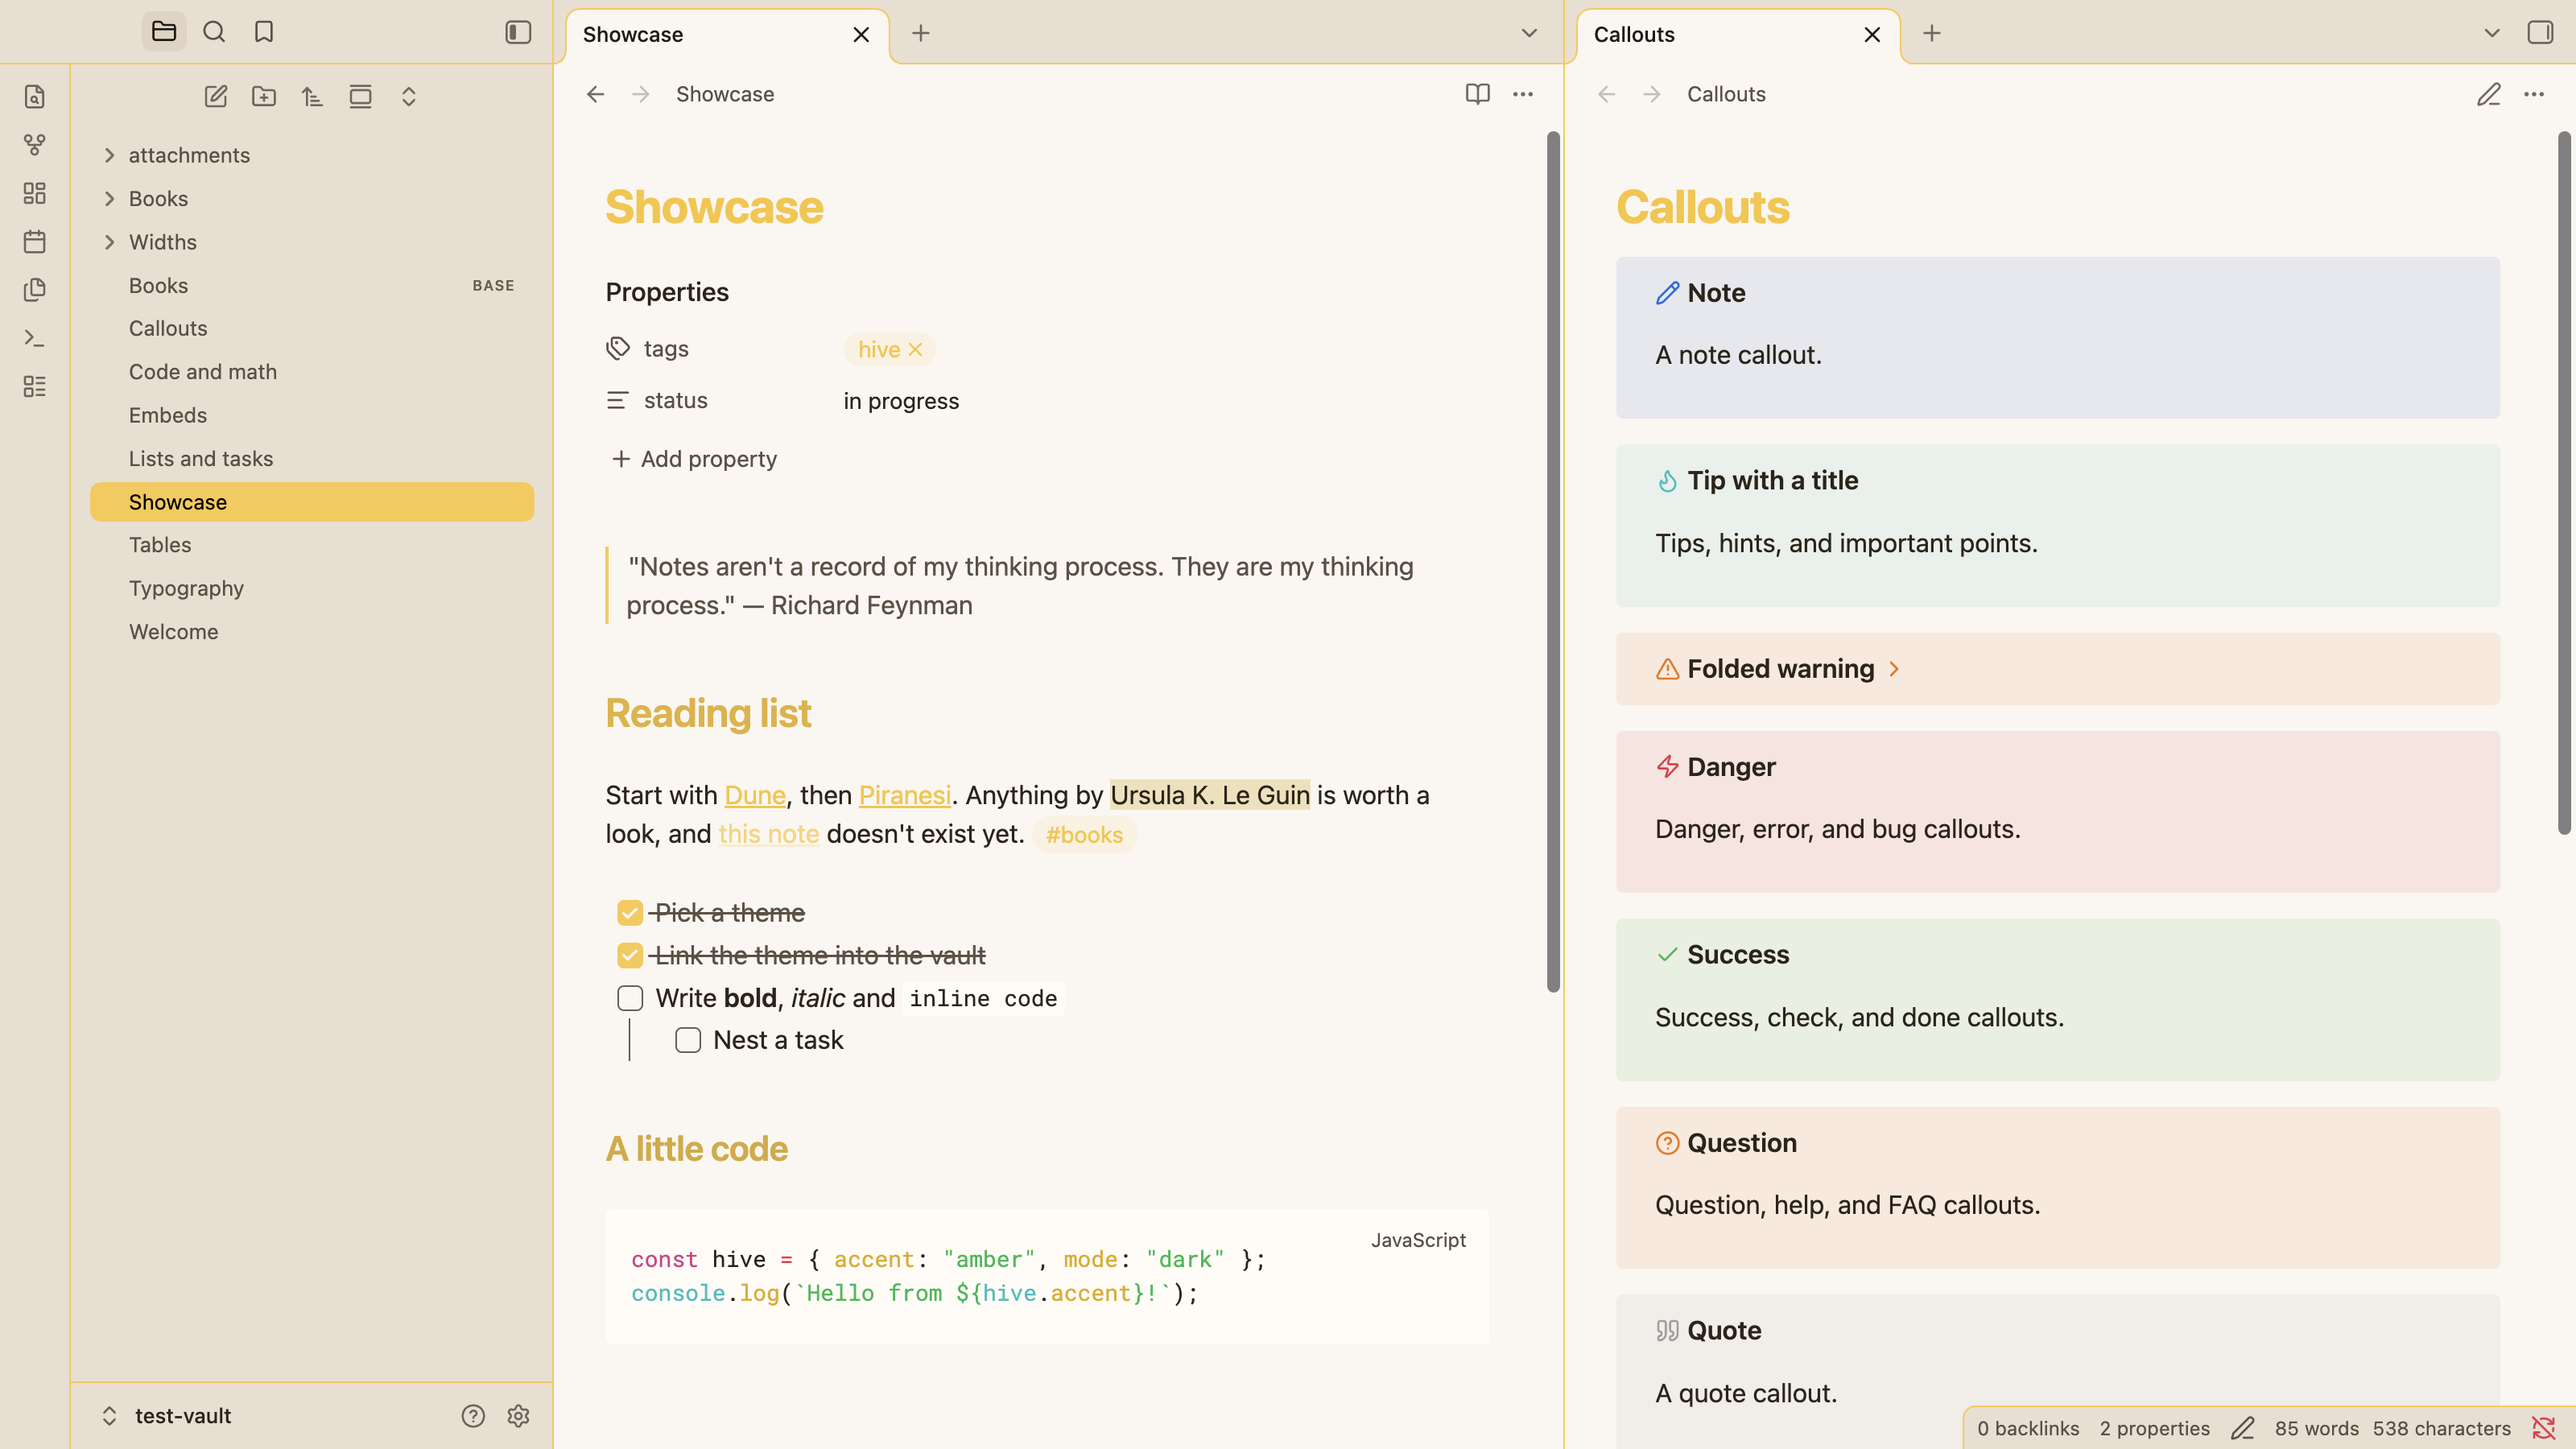
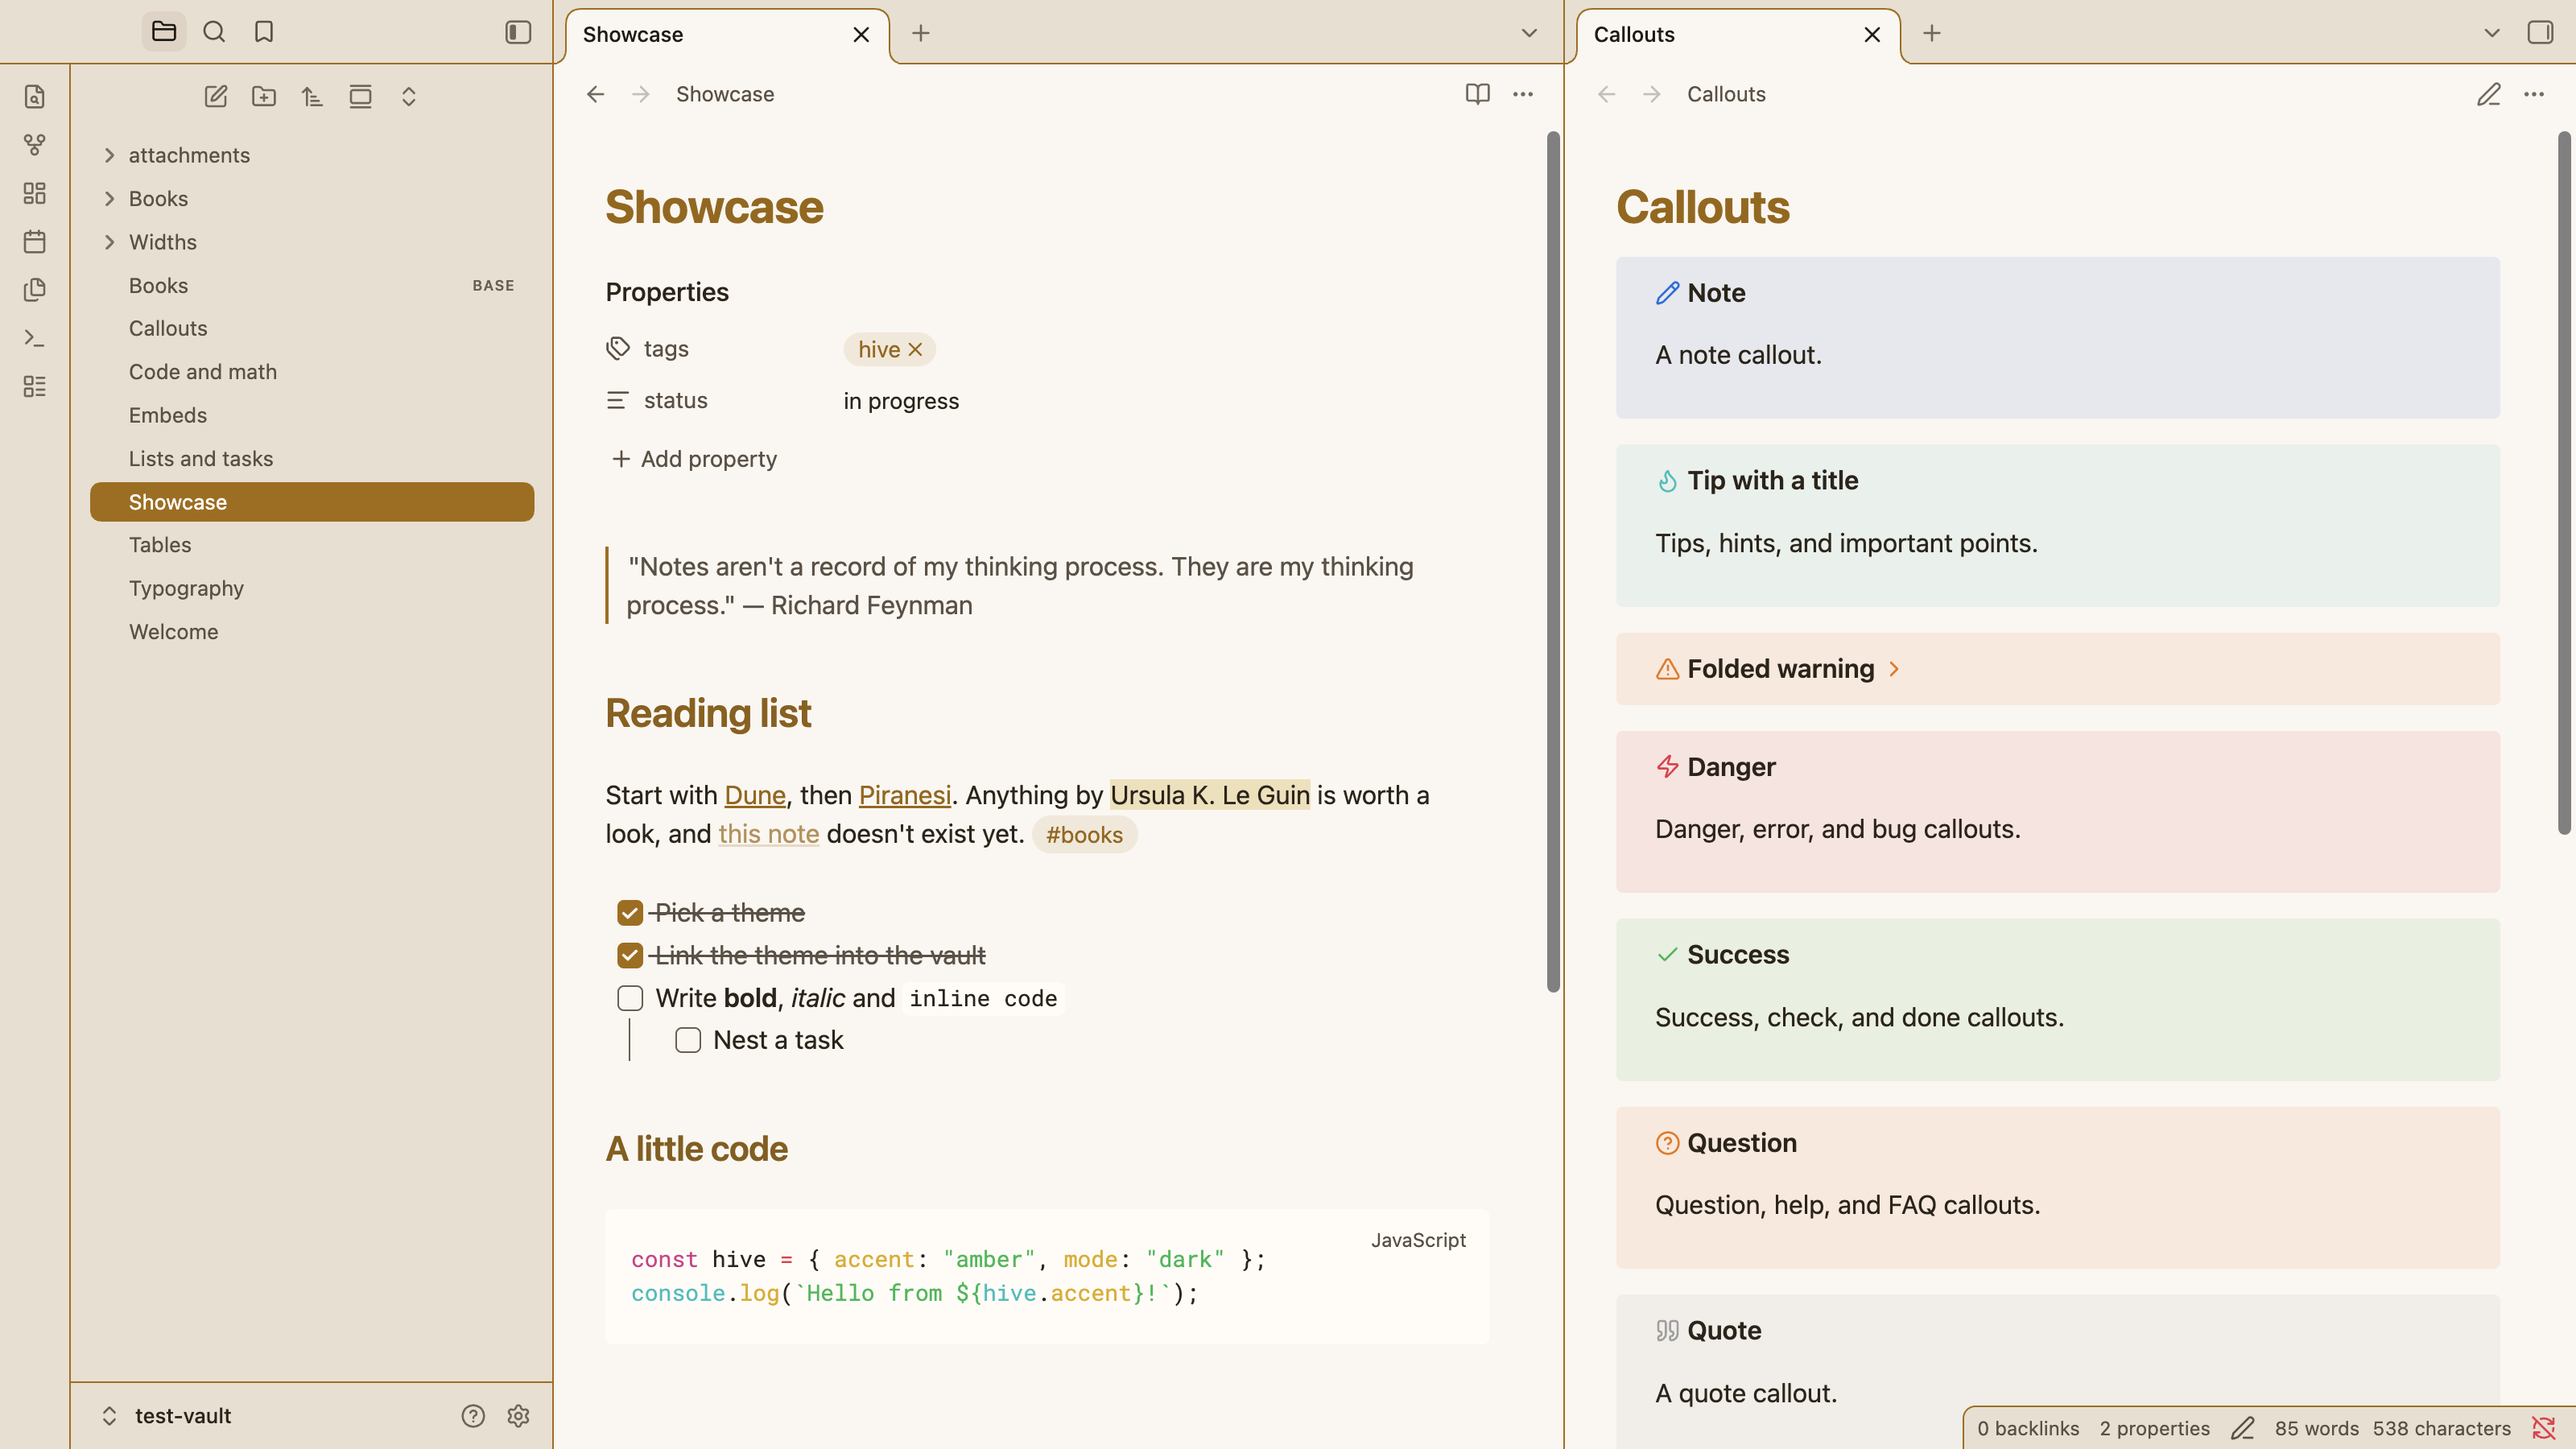
Use a darker amber accent for the light screenshot
The vault accent #f8c537 is only 1.5:1 against the light background.
The screenshot script now uses #9a6700 (4.6:1) in light mode, without
changing the vault setting.

diff --git a/CLAUDE.md b/CLAUDE.md
@@ -50,7 +50,7 @@ When adding a feature with no matching note, add an example to the vault in the 
 
 ## README screenshots
 
-`npm run screenshots` regenerates `img/hive-dark.png` and `img/hive-light.png` from `test-vault`. It sets a fixed 1600×900 @2x viewport, arranges `Showcase.md` (editing view) next to `Callouts.md` (reading view), and restores the window size and color scheme afterwards. Re-run it after visible changes to the theme and view both PNGs before committing. To change what's in the screenshots, edit `Showcase.md`, which exists only for the screenshots, and keep it short enough to fit without scrolling.
+`npm run screenshots` regenerates `img/hive-dark.png` and `img/hive-light.png` from `test-vault`. It sets a fixed 1600×900 @2x viewport, arranges `Showcase.md` (editing view) next to `Callouts.md` (reading view), and restores the window size, color scheme and accent afterwards. Dark mode uses the vault's accent (`#f8c537`). Light mode switches to `#9a6700`, which gives 4.5:1 contrast on the cream background, without changing the vault setting. Re-run it after visible changes to the theme and view both PNGs before committing. To change what's in the screenshots, edit `Showcase.md`, which exists only for the screenshots, and keep it short enough to fit without scrolling.
 
 ## devtools.mjs notes
 

diff --git a/README.md b/README.md
@@ -19,7 +19,7 @@ Hive isn't in Obsidian's community theme directory, so install it by hand:
 1. Download `theme.css` and `manifest.json` from the [latest release](https://github.com/ptxmac/Hive-Obsidian-Theme/releases/latest).
 2. Put both files in `<your vault>/.obsidian/themes/Hive/`.
 3. Go to **Settings → Appearance → Themes** and select **Hive**.
-4. Set **Accent color** under Appearance to taste (yellow/amber matches the screenshots).
+4. Set **Accent color** under Appearance to taste. The screenshots use `#f8c537` in dark mode and the darker `#9a6700` in light mode, which keeps accent text readable on the light background.
 
 ## Helper classes
 
